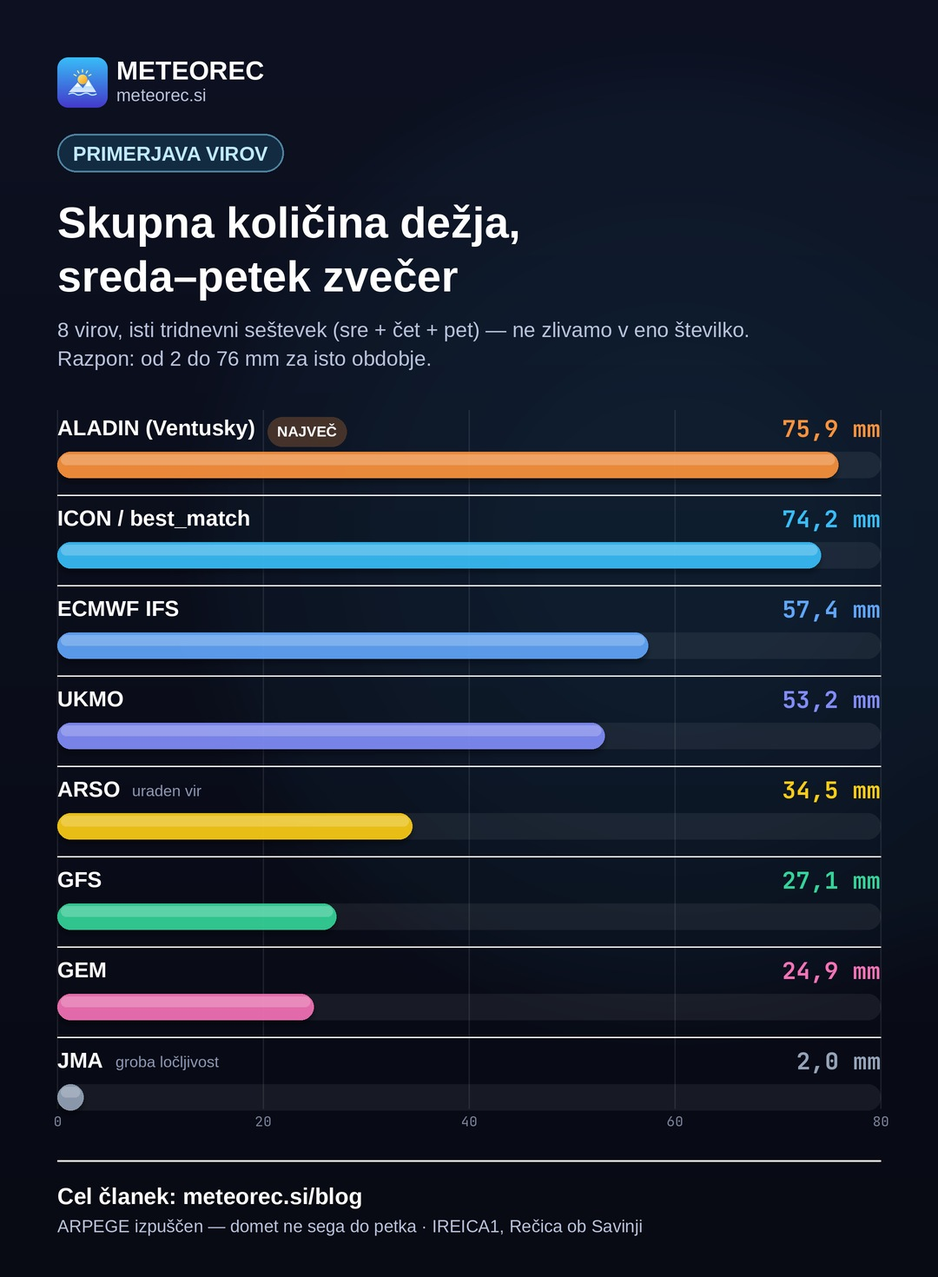
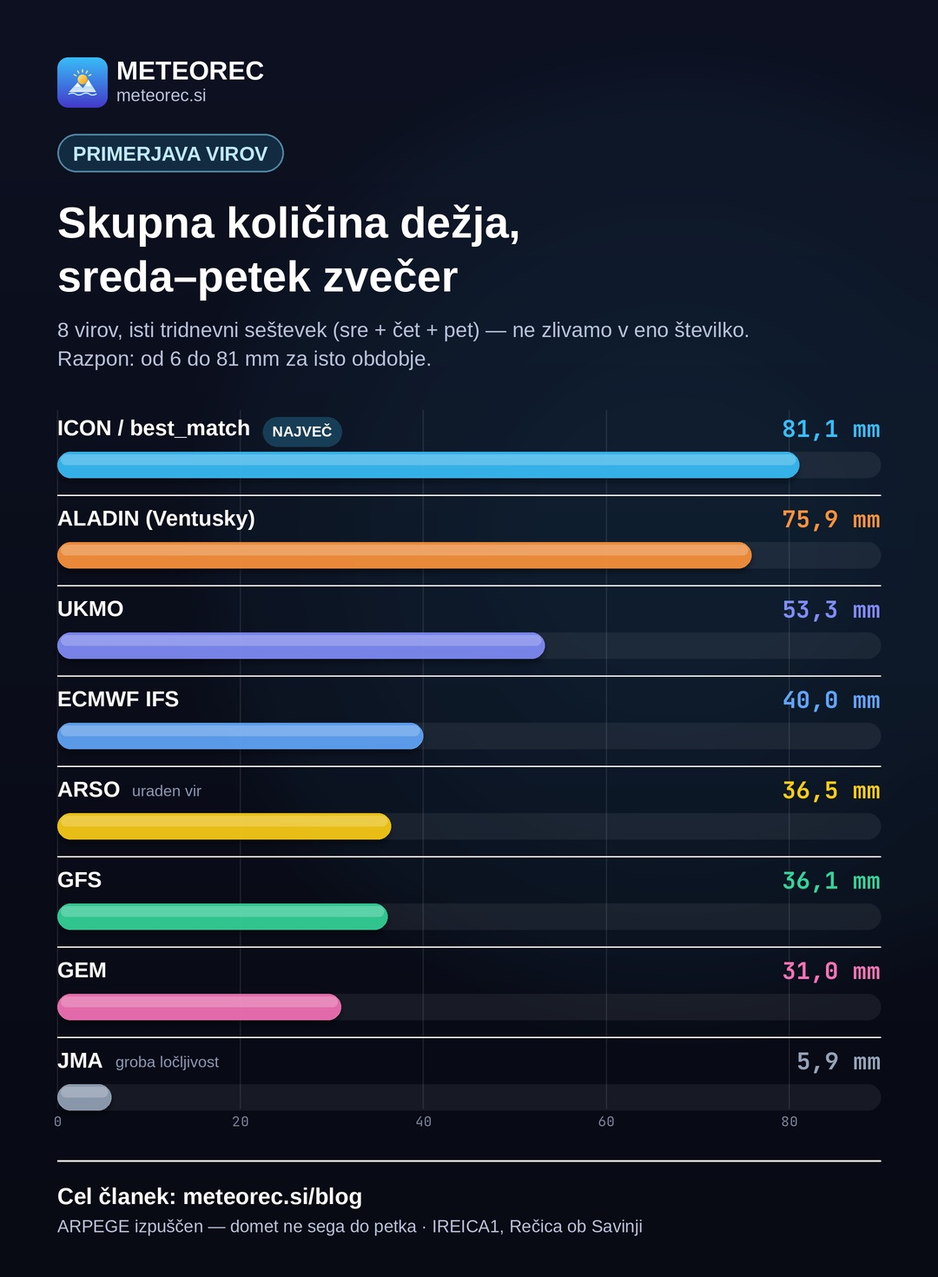
Preveri napovedi in popravi clanek na najnovejsi zagon modelov
Vsi zagoni (Open-Meteo: ECMWF IFS, ICON/best_match, GFS, UKMO, GEM, JMA;
ARSO) so se od jutranje objave premaknili -- popravljeno povsod, kjer se
je razlika poznala:
- trenutne razmere (stat-grid): temperatura, vlaznost, tlak
- oba grafa (7-dnevni pregled + urni potek sreda-petek), vkljucno z
  vgrajenimi Chart.js podatkovnimi polji
- sunki vetra v sredo, urna intenziteta dezja v cetrtek
- 4-vrstocna cetrtkova tabela in 8-vrsticna tridnevna tabela (padavine se
  je razporedila drugace med cetrtek/petek -- ICON je zdaj najvisji vir,
  ne vec ALADIN, ki ostaja zamrznjen enkratni odcitek)
- primerjava za petek in konec tedna

ALADIN (Ventusky) se ni osvezil, ker gre za rocno zajet posnetek zaslona,
ne API -- clanek to zdaj pove v opombi pod tabelo.

Kartica primerjave padavin posodobljena z istimi stevilkami.
seo_audit.py in geo_audit.py oba javita 0 napak.

Claude-Session: https://claude.ai/code/session_01QvoY2hgseD4fkoMvwferAj

diff --git a/blog/poslabsanje-vremena-sredi-tedna-v-sredo-zvecer-dez-v-cetrtek-0907.html b/blog/poslabsanje-vremena-sredi-tedna-v-sredo-zvecer-dez-v-cetrtek-0907.html
@@ -21,7 +21,7 @@ j=d.createElement(s),dl=l!='dataLayer'?'&l='+l:'';j.async=true;j.src=
 <link rel="canonical" href="https://meteorec.si/blog/poslabsanje-vremena-sredi-tedna-v-sredo-zvecer-dez-v-cetrtek-0907.html">
 <link rel="alternate" hreflang="sl" href="https://meteorec.si/blog/poslabsanje-vremena-sredi-tedna-v-sredo-zvecer-dez-v-cetrtek-0907.html">
 <link rel="alternate" hreflang="x-default" href="https://meteorec.si/blog/poslabsanje-vremena-sredi-tedna-v-sredo-zvecer-dez-v-cetrtek-0907.html">
-<meta name="description" content="V sredo zvečer se v Zgornji Savinjski dolini konča vročina: v noči na četrtek in čez dan pade tudi do 60 mm dežja, temperature pa se znižajo za skoraj 15 stopinj.">
+<meta name="description" content="V sredo zvečer se v Zgornji Savinjski dolini konča vročina: v noči na četrtek in čez dan pade tudi do 50 mm dežja, temperature pa se znižajo za skoraj 16 stopinj.">
 <meta name="keywords" content="napoved, poslabšanje, padavine, ohladitev, IREICA1, Zgornja Savinjska dolina">
 <meta name="robots" content="index, follow, max-image-preview:large">
 <meta name="author" content="Filip Eremita">
@@ -29,7 +29,7 @@ j=d.createElement(s),dl=l!='dataLayer'?'&l='+l:'';j.async=true;j.src=
 <meta property="og:url" content="https://meteorec.si/blog/poslabsanje-vremena-sredi-tedna-v-sredo-zvecer-dez-v-cetrtek-0907.html">
 <meta property="og:site_name" content="Meteorec">
 <meta property="og:title" content="Poslabšanje vremena sredi tedna: v sredo zvečer dež, v četrtek in petek oster padec temperature">
-<meta property="og:description" content="V sredo zvečer se v Zgornji Savinjski dolini konča vročina: v noči na četrtek in čez dan pade tudi do 60 mm dežja, temperature pa se znižajo za skoraj 15 stopinj.">
+<meta property="og:description" content="V sredo zvečer se v Zgornji Savinjski dolini konča vročina: v noči na četrtek in čez dan pade tudi do 50 mm dežja, temperature pa se znižajo za skoraj 16 stopinj.">
 <meta property="og:image" content="https://meteorec.si/og/poslabsanje-vremena-sredi-tedna-v-sredo-zvecer-dez-v-cetrtek-0907.jpg">
 <meta property="og:image:width" content="1200">
 <meta property="og:image:height" content="630">
@@ -39,14 +39,14 @@ j=d.createElement(s),dl=l!='dataLayer'?'&l='+l:'';j.async=true;j.src=
 <meta property="article:section" content="Napoved">
 <meta name="twitter:card" content="summary_large_image">
 <meta name="twitter:title" content="Poslabšanje vremena sredi tedna: v sredo zvečer dež, v četrtek in petek oster padec temperature">
-<meta name="twitter:description" content="V sredo zvečer se v Zgornji Savinjski dolini konča vročina: v noči na četrtek in čez dan pade tudi do 60 mm dežja, temperature pa se znižajo za skoraj 15 stopinj.">
+<meta name="twitter:description" content="V sredo zvečer se v Zgornji Savinjski dolini konča vročina: v noči na četrtek in čez dan pade tudi do 50 mm dežja, temperature pa se znižajo za skoraj 16 stopinj.">
 <meta name="twitter:image" content="https://meteorec.si/og/poslabsanje-vremena-sredi-tedna-v-sredo-zvecer-dez-v-cetrtek-0907.jpg">
 <script type="application/ld+json">
 {
   "@context": "https://schema.org",
   "@type": "BlogPosting",
   "headline": "Poslabšanje vremena sredi tedna: v sredo zvečer dež, v četrtek in petek oster padec temperature",
-  "description": "V sredo zvečer se v Zgornji Savinjski dolini konča vročina: v noči na četrtek in čez dan pade tudi do 60 mm dežja, temperature pa se znižajo za skoraj 15 stopinj.",
+  "description": "V sredo zvečer se v Zgornji Savinjski dolini konča vročina: v noči na četrtek in čez dan pade tudi do 50 mm dežja, temperature pa se znižajo za skoraj 16 stopinj.",
   "image": { "@type": "ImageObject", "url": "https://meteorec.si/og/poslabsanje-vremena-sredi-tedna-v-sredo-zvecer-dez-v-cetrtek-0907.jpg", "width": 1200, "height": 630 },
   "datePublished": "2026-09-07",
   "dateModified": "2026-09-07",
@@ -111,22 +111,22 @@ height="0" width="0" style="display:none;visibility:hidden"></iframe></noscript>
     <div class="stat-grid">
       <div class="stat-card c-cool">
         <div class="sc-label">Trenutna temperatura</div>
-        <div class="sc-val">12,7</div>
+        <div class="sc-val">17,3</div>
         <div class="sc-sub">°C · postaja IREICA1</div>
       </div>
       <div class="stat-card c-green">
         <div class="sc-label">Vlažnost</div>
-        <div class="sc-val">99</div>
+        <div class="sc-val">92</div>
         <div class="sc-sub">%</div>
       </div>
       <div class="stat-card c-dry">
         <div class="sc-label">Zračni tlak</div>
-        <div class="sc-val">1025</div>
+        <div class="sc-val">1022</div>
         <div class="sc-sub">hPa</div>
       </div>
       <div class="stat-card c-rain">
         <div class="sc-label">Dež v četrtek (ICON)</div>
-        <div class="sc-val">62,3</div>
+        <div class="sc-val">48,7</div>
         <div class="sc-sub">mm</div>
       </div>
     </div>
@@ -140,56 +140,56 @@ height="0" width="0" style="display:none;visibility:hidden"></iframe></noscript>
     <div class="chart-card">
       <h3>Sreda–četrtek po urah: prehod od vročine k dežju</h3>
       <canvas id="chartHourly"></canvas>
-      <p style="font-size:.75rem;color:var(--muted);margin-top:.7rem">Urna temperatura in padavine (model ICON/best_match) na 3 ure, sreda 6.00 – petek 6.00. Dež se začne kmalu po polnoči na četrtek, najmočnejši je med 7. in 11. uro zjutraj.</p>
+      <p style="font-size:.75rem;color:var(--muted);margin-top:.7rem">Urna temperatura in padavine (model ICON/best_match) na 3 ure, sreda 6.00 – petek 6.00. Dež se začne kmalu po polnoči na četrtek, najmočnejši je med 6. in 12. uro zjutraj.</p>
     </div>
 
     <span class="section-label">01 — torek in sreda dopoldne</span>
     <h2 id="torek-in-sreda">Zadnji vroči dnevi: torek vrh, sreda dopoldne še poletje</h2>
     <p>Danes, v ponedeljek, se bo po napovedi Open-Meteo segrelo do 29,6 °C, jutri, v torek, pa še nekoliko bolj – do 31,7 °C, kar bo vrh tega vročinskega sunka. Naš poskusni model MTR, ki napovedi Open-Meteo doda popravek za dno doline, za sredo napoveduje 28,6 °C in 62-odstotno verjetnost dežja. Po najnovejši urni napovedi bo ta dež prišel šele proti večeru oziroma ponoči – čez dan naj bi bilo v sredo še suho.</p>
-    <p>Sreda se bo namreč začela še povsem poletno. Po urni napovedi bo temperatura do poldneva narasla na okoli 27,5 °C, do zgodnjega popoldneva pa še nekoliko višje, na 27,7 °C. Kdor v sredo dopoldne načrtuje dejavnosti na prostem, lahko še vedno računa na poletno vreme.</p>
+    <p>Sreda se bo namreč začela še povsem poletno. Po urni napovedi bo temperatura do poldneva narasla na okoli 28,5 °C, do zgodnjega popoldneva pa še nekoliko višje, na skoraj 29 °C. Kdor v sredo dopoldne načrtuje dejavnosti na prostem, lahko še vedno računa na poletno vreme.</p>
 
     <span class="section-label">02 — sreda popoldne</span>
     <h2 id="sreda-popoldne">Sreda popoldne: veter in padajoč tlak napovesta spremembo, dežja pa še ni</h2>
-    <p>Prvi jasen znak preobrata bo veter. Medtem ko bo dopoldne pihal le šibek veter, se bodo med 12. in 17. uro sunki okrepili na 36 do 42 km/h – precej nad vrednosti, ki jih je bila dolina vajena v zadnjih dneh. V istem časovnem obdobju bo skokovito naraščala tudi oblačnost: od jasnega neba opoldne do povsem oblačnega neba že v zgodnjem popoldnevu.</p>
+    <p>Prvi jasen znak preobrata bo veter. Medtem ko bo dopoldne pihal le šibek veter, se bodo med 12. in 17. uro sunki okrepili na 30 do dobrih 36 km/h – precej nad vrednosti, ki jih je bila dolina vajena v zadnjih dneh. V istem časovnem obdobju bo naraščala tudi oblačnost, ki v zgodnjem popoldnevu doseže 100 %.</p>
     <p>V ozadju bo padal tudi zračni tlak. Na postaji IREICA1 je bil danes zjutraj še visokih 1025 hPa, po napovedi pa naj bi do sredinega večera padel na okoli 1008 hPa – skoraj 17 hPa v dobrih dveh dneh, kar je značilen predznak fronte. Kdor želi spremljati, ali je ARSO za območje že izdal kakšno opozorilo, si lahko sprotno stanje ogleda na strani <a href="/nevihte/" style="color:var(--blue)">nevihtna napoved</a>.</p>
     <p>Pomembno pa je, da sreda popoldne še ne bo prinesla dežja – po urni napovedi količina padavin ostaja pri nič vse do pozne noči. Veter in padajoč tlak sta zato opozorilna znaka, ne še sam vremenski dogodek.</p>
 
     <span class="section-label">03 — noč na četrtek in četrtek</span>
     <h2 id="noc-na-cetrtek">Noč na četrtek prinese dež, dopoldne je najmočnejši</h2>
-    <p>Dež po napovedi začne padati kmalu po polnoči na četrtek – sprva rahlo, nato pa se med 7. in 11. uro okrepi na 5 do skoraj 7 mm na uro. Oblačnost bo ves četrtek ostala pri 100 %, temperatura pa se bo med sredinim popoldnevom (okoli 28 °C) in četrtkovim dopoldnevom (okoli 15 °C) znižala za več kot 12 stopinj v manj kot 24 urah.</p>
+    <p>Dež po napovedi začne padati kmalu po polnoči na četrtek – sprva rahlo, nato pa se med 6. in 12. uro okrepi na 2 do dobrih 5 mm na uro. Oblačnost bo ves četrtek ostala pri 100 %, temperatura pa se bo med sredinim popoldnevom (okoli 29 °C) in četrtkovim dopoldnevom (okoli 16 °C) znižala za več kot 12 stopinj v manj kot 24 urah.</p>
     <p>Pri količini dežja v četrtek se štirje viri precej razlikujejo, zato njihovih napovedi ne združujemo v eno samo številko:</p>
     <div class="table-scroll">
       <table class="stats">
         <tr><th>Vir</th><th>Najvišja temperatura</th><th>Padavine (četrtek)</th></tr>
-        <tr><td>ARSO (Ljubno ob Savinji)</td><td>14 °C</td><td>28,6 mm</td></tr>
-        <tr><td>ECMWF IFS</td><td>18,2 °C</td><td>31,8 mm</td></tr>
-        <tr><td>ICON / best_match</td><td>20,1 °C</td><td>62,3 mm</td></tr>
-        <tr><td>GFS</td><td>19,7 °C</td><td>17,1 mm</td></tr>
+        <tr><td>ARSO (Ljubno ob Savinji)</td><td>16 °C</td><td>17,6 mm</td></tr>
+        <tr><td>ECMWF IFS</td><td>19,2 °C</td><td>22,9 mm</td></tr>
+        <tr><td>ICON / best_match</td><td>19,0 °C</td><td>48,7 mm</td></tr>
+        <tr><td>GFS</td><td>20,3 °C</td><td>30,0 mm</td></tr>
       </table>
     </div>
-    <p>Razlika med najnižjo oceno količine padavin (GFS, 17,1 mm) in najvišjo (ICON, 62,3 mm) je več kot trikratna. Vsi štirje viri pa se strinjajo glede občutne ohladitve: v četrtek bo najvišja dnevna temperatura med 14 in 20 °C, torej dobrih 10 do 17 stopinj nižja od torkovega vrha.</p>
-    <p>Postaja IREICA1 je ta mesec doslej namerila 9,9 mm dežja. Če se uresniči najbolj mokra ocena, bi samo v četrtek padlo več kot šestkrat toliko – razlog več, da v naslednjih dneh spremljamo tudi <a href="/vodostaj-savinje/" style="color:var(--blue)">vodostaj Savinje</a>.</p>
+    <p>Razlika med najnižjo oceno količine padavin (ARSO, 17,6 mm) in najvišjo (ICON, 48,7 mm) je skoraj trikratna. Vsi štirje viri pa se strinjajo glede občutne ohladitve: v četrtek bo najvišja dnevna temperatura med 16 in 20 °C, torej dobrih 11 do 16 stopinj nižja od torkovega vrha.</p>
+    <p>Postaja IREICA1 je ta mesec doslej namerila 9,9 mm dežja. Če se uresniči najbolj mokra ocena, bi samo v četrtek padlo skoraj petkrat toliko – razlog več, da v naslednjih dneh spremljamo tudi <a href="/vodostaj-savinje/" style="color:var(--blue)">vodostaj Savinje</a>.</p>
     <p>Če sliko razširimo na vseh osem virov, ki jih spremljamo ta teden, in namesto enega dne pogledamo celoten tridnevni seštevek – sreda, četrtek in petek skupaj – se razpon še poveča:</p>
     <div class="table-scroll">
       <table class="stats">
         <tr><th>Vir</th><th>Sreda–petek skupaj</th></tr>
+        <tr><td>ICON / best_match</td><td>81,1 mm</td></tr>
         <tr><td>ALADIN (Ventusky)*</td><td>75,9 mm</td></tr>
-        <tr><td>ICON / best_match</td><td>74,2 mm</td></tr>
-        <tr><td>ECMWF IFS</td><td>57,4 mm</td></tr>
-        <tr><td>UKMO</td><td>53,2 mm</td></tr>
-        <tr><td>ARSO (Ljubno ob Savinji)</td><td>34,5 mm</td></tr>
-        <tr><td>GFS</td><td>27,1 mm</td></tr>
-        <tr><td>GEM</td><td>24,9 mm</td></tr>
-        <tr><td>JMA</td><td>2,0 mm</td></tr>
+        <tr><td>UKMO</td><td>53,3 mm</td></tr>
+        <tr><td>ECMWF IFS</td><td>40,0 mm</td></tr>
+        <tr><td>ARSO (Ljubno ob Savinji)</td><td>36,5 mm</td></tr>
+        <tr><td>GFS</td><td>36,1 mm</td></tr>
+        <tr><td>GEM</td><td>31,0 mm</td></tr>
+        <tr><td>JMA</td><td>5,9 mm</td></tr>
       </table>
     </div>
-    <p style="color:var(--muted);font-size:.85rem">* ALADIN ni za isto lokacijo kot IREICA1, in mu manjkajo posamezne urne vrednosti – vsota je zato spodnja meja, ne natančna številka. ARPEGE (Météo-France) je izpuščen, ker njegov domet ne sega do petka.</p>
-    <p>Od najbolj skromne ocene (JMA, 2 mm – ta japonski globalni model ima nad Evropo grobo ločljivost in manjše padavinske sisteme pogosto zgreši) do najbolj namočene (ALADIN, skoraj 76 mm) je razlika več kot 35-kratna. Enotni so viri predvsem pri smeri: dež pride, ohladitev pride – koliko dežja natančno, bo jasno šele, ko bo dejansko padel.</p>
+    <p style="color:var(--muted);font-size:.85rem">* ALADIN je osamljen odčitek izpred nekaj ur (ni ista lokacija kot IREICA1, manjkajo tudi posamezne urne vrednosti) in se – drugače kot ostalih sedem virov – ni osvežil z najnovejšim zagonom. ARPEGE (Météo-France) je izpuščen, ker njegov domet ne sega do petka.</p>
+    <p>Od najbolj skromne ocene (JMA, skoraj 6 mm – ta japonski globalni model ima nad Evropo grobo ločljivost in manjše padavinske sisteme pogosto zgreši) do najbolj namočene (ICON, dobrih 81 mm) je razlika več kot 13-kratna. Enotni so viri predvsem pri smeri: dež pride, ohladitev pride – koliko dežja natančno, bo jasno šele, ko bo dejansko padel.</p>
 
     <span class="section-label">04 — petek in konec tedna</span>
     <h2 id="petek-in-konec-tedna">Petek ostaja hladen in vlažen, konec tedna počasno okrevanje</h2>
-    <p>Tudi za petek viri niso enotni. ARSO in ICON kažeta še en hladen in deževen dan (15 oziroma 14,7 °C ter 3,5 oziroma 13,2 mm), ECMWF pa napoveduje, da bo sistem že skoraj povsem umaknjen (18,4 °C, komaj 0,3 mm). GFS izrazito izstopa s 23,6 °C – razlika glede na preostale tri vire je za isti dan več kot 8 stopinj. To predvsem kaže, da natančnega dneva umika fronte še ni mogoče zanesljivo določiti.</p>
-    <p>Po večini scenarijev bo ohladitev do konca tedna počasi popuščala: sobotna napoved (ICON) kaže 20,0 °C, nedeljska pa že 21,6 °C, brez dežja. Namočena tla in nižje temperature so tudi dejavniki, ki jih spremljamo pri <a href="/gobarska-napoved/" style="color:var(--blue)">gobarski napovedi</a> – vendar se trosnjaki na dež odzovejo z večdnevnim zamikom, ne že isti teden.</p>
+    <p>Tudi za petek viri niso enotni. ARSO in ICON kažeta še en hladen in deževen dan (13 oziroma 15,3 °C ter 13,9 in 31,5 mm), ECMWF je nekje vmes (17,0 °C, 11,1 mm). GFS izrazito izstopa – zdaj še bolj kot pri četrtkovi napovedi – s 26,0 °C, kar je od najhladnejšega vira (ARSO) oddaljeno za 13 stopinj za isti dan. To predvsem kaže, da natančnega dneva umika fronte še ni mogoče zanesljivo določiti.</p>
+    <p>Po večini scenarijev bo ohladitev do konca tedna počasi popuščala: sobotna napoved (ICON) kaže 20,1 °C ob minimalnih padavinah, nedeljska pa 19,3 °C in suha. Namočena tla in nižje temperature so tudi dejavniki, ki jih spremljamo pri <a href="/gobarska-napoved/" style="color:var(--blue)">gobarski napovedi</a> – vendar se trosnjaki na dež odzovejo z večdnevnim zamikom, ne že isti teden.</p>
 
     <div class="callout">
       <p><strong>Kako zanesljiva je napoved za dva do tri dni vnaprej:</strong> Po izmerjenih napakah na strani <a href="/test-napovedi/" style="color:var(--blue)">Test napovedi</a> ima ICON/best_match pri napovedi najvišje temperature dva do tri dni vnaprej povprečno napako 1,7–1,8 °C, ECMWF in GFS pa 2,1–2,2 °C. Pri zaznavi dneva z več kot 5 mm dežja modeli dogodek zaznajo v 60 do 68 odstotkih primerov. To je dovolj, da lahko precej zaupamo napovedi, da bo v četrtek res deževalo in da bo občutno hladneje – ne pa še natančni napovedi količine padavin v milimetrih.</p>
@@ -252,12 +252,12 @@ height="0" width="0" style="display:none;visibility:hidden"></iframe></noscript>
     data: {
       labels: ["07.09.", "08.09.", "09.09.", "10.09.", "11.09.", "12.09.", "13.09."],
       datasets: [
-        { type: 'bar', label: 'Padavine (mm)', data: [0.0, 0.0, 0.0, 62.3, 13.2, 0.0, 0.0], backgroundColor: 'rgba(96,165,250,.55)',
+        { type: 'bar', label: 'Padavine (mm)', data: [0.0, 0.2, 0.9, 48.7, 31.5, 0.6, 0.0], backgroundColor: 'rgba(96,165,250,.55)',
            borderRadius: 5, yAxisID: 'y1', order: 3 },
-        { type: 'line', label: 'Tmax (°C)', data: [29.6, 31.7, 27.8, 20.1, 14.7, 20.0, 21.6], borderColor: '#f97316',
+        { type: 'line', label: 'Tmax (°C)', data: [29.1, 31.8, 28.9, 19.0, 15.3, 20.1, 19.3], borderColor: '#f97316',
            backgroundColor: 'rgba(249,115,22,.12)', borderWidth: 2, pointRadius: 3,
            pointBackgroundColor: '#f97316', fill: true, tension: .35, order: 1 },
-        { type: 'line', label: 'Tmin (°C)', data: [11.0, 16.2, 17.1, 13.3, 12.9, 12.8, 8.1], borderColor: '#22d3ee',
+        { type: 'line', label: 'Tmin (°C)', data: [11.0, 14.6, 16.5, 13.7, 13.3, 13.1, 12.4], borderColor: '#22d3ee',
            backgroundColor: 'rgba(34,211,238,.08)', borderWidth: 2, pointRadius: 3,
            pointBackgroundColor: '#22d3ee', fill: true, tension: .35, order: 2 }
       ]
@@ -279,9 +279,9 @@ height="0" width="0" style="display:none;visibility:hidden"></iframe></noscript>
     data: {
       labels: ["sre 06", "sre 09", "sre 12", "sre 15", "sre 18", "sre 21", "čet 00", "čet 03", "čet 06", "čet 09", "čet 12", "čet 15", "čet 18", "čet 21", "pet 00", "pet 03", "pet 06"],
       datasets: [
-        { type: 'bar', label: 'Padavine (mm)', data: [0.0, 0.0, 0.0, 0.0, 0.0, 0.0, 0.2, 3.0, 2.0, 6.5, 2.9, 1.4, 1.3, 0.8, 0.7, 0.2, 1.6], backgroundColor: 'rgba(96,165,250,.55)',
+        { type: 'bar', label: 'Padavine (mm)', data: [0.0, 0.0, 0.0, 0.0, 0.0, 0.0, 1.5, 1.7, 3.7, 4.6, 2.3, 1.1, 0.6, 1.5, 0.5, 2.7, 5.5], backgroundColor: 'rgba(96,165,250,.55)',
            borderRadius: 4, yAxisID: 'y1', order: 3 },
-        { type: 'line', label: 'Temperatura (°C)', data: [17.2, 24.3, 27.5, 27.7, 24.3, 22.1, 20.1, 18.5, 17.0, 15.6, 15.0, 14.9, 14.5, 13.6, 13.2, 13.2, 13.4], borderColor: '#f97316',
+        { type: 'line', label: 'Temperatura (°C)', data: [17.0, 22.2, 28.5, 28.3, 24.0, 21.1, 19.0, 17.5, 16.3, 16.2, 16.5, 15.2, 14.8, 14.0, 13.7, 13.5, 13.3], borderColor: '#f97316',
            backgroundColor: 'rgba(249,115,22,.12)', borderWidth: 2, pointRadius: 2.5,
            pointBackgroundColor: '#f97316', fill: true, tension: .3, order: 1 }
       ]

diff --git a/blog/podnebno-povprecje-kako-vroc-je-res-ta-avgust-0806.html b/blog/podnebno-povprecje-kako-vroc-je-res-ta-avgust-0806.html
@@ -186,7 +186,7 @@ height="0" width="0" style="display:none;visibility:hidden"></iframe></noscript>
   <!-- sorodni:start — samodejno, wire_all(); ne urejaj ročno -->
   <section class="related-posts">
     <h2 class="related-title">Sorodni članki</h2>
-    <div class="related-grid"><a class="related-card" href="/blog/danes-vrh-vrocine-32-4-c-v-zgornji-savinjski-dolini-nato-ohl-0717.html"><span class="related-date">17. julija 2026</span><span class="related-h">Danes vrh vročine: 32,4 °C v Zgornji Savinjski dolini, nato ohladitev z dežjem</span><span class="related-sum">Danes na Rečici ob Savinji pričakujemo do 32,4 °C, nato pa se vročinski val prelomi – v naslednjih dneh dež in občutno h…</span></a><a class="related-card" href="/blog/julij-2026-v-zgornji-savinjski-dolini-je-letosnje-vreme-res-0723.html"><span class="related-date">23. julija 2026</span><span class="related-h">Julij 2026 v Zgornji Savinjski dolini: je letošnje vreme res drugačno od dolgoletnega povprečja?</span><span class="related-sum">Kako se julij 2026 v Rečici ob Savinji obnaša glede na podnebno povprečje doline? Primerjava trenutnih razmer IREICA1 z …</span></a><a class="related-card" href="/blog/kdaj-popusti-vrocina-po-vrhuncu-35-6-c-0816.html"><span class="related-date">16. avgusta 2026</span><span class="related-h">Kdaj popusti vročina po vrhuncu 35,6 °C?</span><span class="related-sum">Danes vrh vročine z 35,6 °C v Zgornji Savinjski dolini, nato hiter obrat: jutri dež in ohladitev pod 26 stopinj. Kaj kaž…</span></a></div>
+    <div class="related-grid"><a class="related-card" href="/blog/julij-2026-v-zgornji-savinjski-dolini-je-letosnje-vreme-res-0723.html"><span class="related-date">23. julija 2026</span><span class="related-h">Julij 2026 v Zgornji Savinjski dolini: je letošnje vreme res drugačno od dolgoletnega povprečja?</span><span class="related-sum">Kako se julij 2026 v Rečici ob Savinji obnaša glede na podnebno povprečje doline? Primerjava trenutnih razmer IREICA1 z …</span></a><a class="related-card" href="/blog/danes-vrh-vrocine-32-4-c-v-zgornji-savinjski-dolini-nato-ohl-0717.html"><span class="related-date">17. julija 2026</span><span class="related-h">Danes vrh vročine: 32,4 °C v Zgornji Savinjski dolini, nato ohladitev z dežjem</span><span class="related-sum">Danes na Rečici ob Savinji pričakujemo do 32,4 °C, nato pa se vročinski val prelomi – v naslednjih dneh dež in občutno h…</span></a><a class="related-card" href="/blog/kdaj-popusti-vrocina-po-vrhuncu-35-6-c-0816.html"><span class="related-date">16. avgusta 2026</span><span class="related-h">Kdaj popusti vročina po vrhuncu 35,6 °C?</span><span class="related-sum">Danes vrh vročine z 35,6 °C v Zgornji Savinjski dolini, nato hiter obrat: jutri dež in ohladitev pod 26 stopinj. Kaj kaž…</span></a></div>
   </section>
   <!-- sorodni:end -->
 

diff --git a/blog/tedenska-napoved-24-28-avgust-2026.html b/blog/tedenska-napoved-24-28-avgust-2026.html
@@ -429,7 +429,7 @@ height="0" width="0" style="display:none;visibility:hidden"></iframe></noscript>
   <!-- sorodni:start — samodejno, wire_all(); ne urejaj ročno -->
   <section class="related-posts">
     <h2 class="related-title">Sorodni članki</h2>
-    <div class="related-grid"><a class="related-card" href="/blog/tedenska-napoved-11-17-avgust-2026.html"><span class="related-date">10. avgusta 2026</span><span class="related-h">Tedenska napoved 11.–17. avgusta: sredina tedna je uganka, konec tedna vroč</span><span class="related-sum">Šest globalnih modelov, ARSO in domači MTR za teden od 11. do 17. avgusta. V torek nevihte, sredi tedna hladne noči, za …</span></a><a class="related-card" href="/blog/poslabsanje-vremena-sredi-tedna-v-sredo-zvecer-dez-v-cetrtek-0907.html"><span class="related-date">7. septembra 2026</span><span class="related-h">Poslabšanje vremena sredi tedna: v sredo zvečer dež, v četrtek in petek oster padec temperature</span><span class="related-sum">V sredo zvečer se v Zgornji Savinjski dolini konča vročina: v noči na četrtek in čez dan pade tudi do 60 mm dežja, tempe…</span></a><a class="related-card" href="/blog/dez-v-cetrtek-ali-petek-viri-se-ne-strinjajo-o-dnevu-0819.html"><span class="related-date">19. avgusta 2026</span><span class="related-h">Dež v četrtek ali petek? Viri se ne strinjajo o dnevu</span><span class="related-sum">Enajst napovedi za četrtek in petek: v četrtek od 0,0 do 17,8 mm, v petek od 0,3 do 47,5 mm. Grafi primerjajo dneva, ure…</span></a></div>
+    <div class="related-grid"><a class="related-card" href="/blog/tedenska-napoved-11-17-avgust-2026.html"><span class="related-date">10. avgusta 2026</span><span class="related-h">Tedenska napoved 11.–17. avgusta: sredina tedna je uganka, konec tedna vroč</span><span class="related-sum">Šest globalnih modelov, ARSO in domači MTR za teden od 11. do 17. avgusta. V torek nevihte, sredi tedna hladne noči, za …</span></a><a class="related-card" href="/blog/poslabsanje-vremena-sredi-tedna-v-sredo-zvecer-dez-v-cetrtek-0907.html"><span class="related-date">7. septembra 2026</span><span class="related-h">Poslabšanje vremena sredi tedna: v sredo zvečer dež, v četrtek in petek oster padec temperature</span><span class="related-sum">V sredo zvečer se v Zgornji Savinjski dolini konča vročina: v noči na četrtek in čez dan pade tudi do 50 mm dežja, tempe…</span></a><a class="related-card" href="/blog/dez-v-cetrtek-ali-petek-viri-se-ne-strinjajo-o-dnevu-0819.html"><span class="related-date">19. avgusta 2026</span><span class="related-h">Dež v četrtek ali petek? Viri se ne strinjajo o dnevu</span><span class="related-sum">Enajst napovedi za četrtek in petek: v četrtek od 0,0 do 17,8 mm, v petek od 0,3 do 47,5 mm. Grafi primerjajo dneva, ure…</span></a></div>
   </section>
   <!-- sorodni:end -->
 

diff --git a/blog/koliko-dezja-bo-jutri-arso-in-open-meteo-narazen-0824.html b/blog/koliko-dezja-bo-jutri-arso-in-open-meteo-narazen-0824.html
@@ -183,7 +183,7 @@ height="0" width="0" style="display:none;visibility:hidden"></iframe></noscript>
   <!-- sorodni:start — samodejno, wire_all(); ne urejaj ročno -->
   <section class="related-posts">
     <h2 class="related-title">Sorodni članki</h2>
-    <div class="related-grid"><a class="related-card" href="/blog/tedenska-napoved-24-28-avgust-2026.html"><span class="related-date">23. avgusta 2026</span><span class="related-h">Napoved za teden 24.–28. avgusta: torek uganka, petek vroč in vetroven</span><span class="related-sum">Šest modelov, ARSO in domači MTR za teden 24.–28. avgusta v Zgornji Savinjski dolini: torek je velika uganka, petek vroč…</span></a><a class="related-card" href="/blog/tedenska-napoved-11-17-avgust-2026.html"><span class="related-date">10. avgusta 2026</span><span class="related-h">Tedenska napoved 11.–17. avgusta: sredina tedna je uganka, konec tedna vroč</span><span class="related-sum">Šest globalnih modelov, ARSO in domači MTR za teden od 11. do 17. avgusta. V torek nevihte, sredi tedna hladne noči, za …</span></a><a class="related-card" href="/blog/poslabsanje-vremena-sredi-tedna-v-sredo-zvecer-dez-v-cetrtek-0907.html"><span class="related-date">7. septembra 2026</span><span class="related-h">Poslabšanje vremena sredi tedna: v sredo zvečer dež, v četrtek in petek oster padec temperature</span><span class="related-sum">V sredo zvečer se v Zgornji Savinjski dolini konča vročina: v noči na četrtek in čez dan pade tudi do 60 mm dežja, tempe…</span></a></div>
+    <div class="related-grid"><a class="related-card" href="/blog/tedenska-napoved-24-28-avgust-2026.html"><span class="related-date">23. avgusta 2026</span><span class="related-h">Napoved za teden 24.–28. avgusta: torek uganka, petek vroč in vetroven</span><span class="related-sum">Šest modelov, ARSO in domači MTR za teden 24.–28. avgusta v Zgornji Savinjski dolini: torek je velika uganka, petek vroč…</span></a><a class="related-card" href="/blog/poslabsanje-vremena-sredi-tedna-v-sredo-zvecer-dez-v-cetrtek-0907.html"><span class="related-date">7. septembra 2026</span><span class="related-h">Poslabšanje vremena sredi tedna: v sredo zvečer dež, v četrtek in petek oster padec temperature</span><span class="related-sum">V sredo zvečer se v Zgornji Savinjski dolini konča vročina: v noči na četrtek in čez dan pade tudi do 50 mm dežja, tempe…</span></a><a class="related-card" href="/blog/tedenska-napoved-11-17-avgust-2026.html"><span class="related-date">10. avgusta 2026</span><span class="related-h">Tedenska napoved 11.–17. avgusta: sredina tedna je uganka, konec tedna vroč</span><span class="related-sum">Šest globalnih modelov, ARSO in domači MTR za teden od 11. do 17. avgusta. V torek nevihte, sredi tedna hladne noči, za …</span></a></div>
   </section>
   <!-- sorodni:end -->
 

diff --git a/blog/naslednji-teden-konec-poletja-0904.html b/blog/naslednji-teden-konec-poletja-0904.html
@@ -220,7 +220,7 @@ height="0" width="0" style="display:none;visibility:hidden"></iframe></noscript>
   <!-- sorodni:start — samodejno, wire_all(); ne urejaj ročno -->
   <section class="related-posts">
     <h2 class="related-title">Sorodni članki</h2>
-    <div class="related-grid"><a class="related-card" href="/blog/tedenska-napoved-24-28-avgust-2026.html"><span class="related-date">23. avgusta 2026</span><span class="related-h">Napoved za teden 24.–28. avgusta: torek uganka, petek vroč in vetroven</span><span class="related-sum">Šest modelov, ARSO in domači MTR za teden 24.–28. avgusta v Zgornji Savinjski dolini: torek je velika uganka, petek vroč…</span></a><a class="related-card" href="/blog/tedenska-napoved-11-17-avgust-2026.html"><span class="related-date">10. avgusta 2026</span><span class="related-h">Tedenska napoved 11.–17. avgusta: sredina tedna je uganka, konec tedna vroč</span><span class="related-sum">Šest globalnih modelov, ARSO in domači MTR za teden od 11. do 17. avgusta. V torek nevihte, sredi tedna hladne noči, za …</span></a><a class="related-card" href="/blog/poslabsanje-vremena-sredi-tedna-v-sredo-zvecer-dez-v-cetrtek-0907.html"><span class="related-date">7. septembra 2026</span><span class="related-h">Poslabšanje vremena sredi tedna: v sredo zvečer dež, v četrtek in petek oster padec temperature</span><span class="related-sum">V sredo zvečer se v Zgornji Savinjski dolini konča vročina: v noči na četrtek in čez dan pade tudi do 60 mm dežja, tempe…</span></a></div>
+    <div class="related-grid"><a class="related-card" href="/blog/tedenska-napoved-24-28-avgust-2026.html"><span class="related-date">23. avgusta 2026</span><span class="related-h">Napoved za teden 24.–28. avgusta: torek uganka, petek vroč in vetroven</span><span class="related-sum">Šest modelov, ARSO in domači MTR za teden 24.–28. avgusta v Zgornji Savinjski dolini: torek je velika uganka, petek vroč…</span></a><a class="related-card" href="/blog/tedenska-napoved-11-17-avgust-2026.html"><span class="related-date">10. avgusta 2026</span><span class="related-h">Tedenska napoved 11.–17. avgusta: sredina tedna je uganka, konec tedna vroč</span><span class="related-sum">Šest globalnih modelov, ARSO in domači MTR za teden od 11. do 17. avgusta. V torek nevihte, sredi tedna hladne noči, za …</span></a><a class="related-card" href="/blog/poslabsanje-vremena-sredi-tedna-v-sredo-zvecer-dez-v-cetrtek-0907.html"><span class="related-date">7. septembra 2026</span><span class="related-h">Poslabšanje vremena sredi tedna: v sredo zvečer dež, v četrtek in petek oster padec temperature</span><span class="related-sum">V sredo zvečer se v Zgornji Savinjski dolini konča vročina: v noči na četrtek in čez dan pade tudi do 50 mm dežja, tempe…</span></a></div>
   </section>
   <!-- sorodni:end -->
 

diff --git a/blog/dez-v-cetrtek-ali-petek-viri-se-ne-strinjajo-o-dnevu-0819.html b/blog/dez-v-cetrtek-ali-petek-viri-se-ne-strinjajo-o-dnevu-0819.html
@@ -1102,7 +1102,7 @@ height="0" width="0" style="display:none;visibility:hidden"></iframe></noscript>
   <!-- sorodni:start — samodejno, wire_all(); ne urejaj ročno -->
   <section class="related-posts">
     <h2 class="related-title">Sorodni članki</h2>
-    <div class="related-grid"><a class="related-card" href="/blog/koliko-dezja-bo-danes-modeli-si-niso-enotni-0817.html"><span class="related-date">17. avgusta 2026</span><span class="related-h">Koliko dežja bo danes? Modeli si niso enotni</span><span class="related-sum">Enajst virov za isti dan in isto točko napove od 1,2 do 16,9 mm dežja. Grafi primerjajo količine in uro padavin — ter ka…</span></a><a class="related-card" href="/blog/tedenska-napoved-24-28-avgust-2026.html"><span class="related-date">23. avgusta 2026</span><span class="related-h">Napoved za teden 24.–28. avgusta: torek uganka, petek vroč in vetroven</span><span class="related-sum">Šest modelov, ARSO in domači MTR za teden 24.–28. avgusta v Zgornji Savinjski dolini: torek je velika uganka, petek vroč…</span></a><a class="related-card" href="/blog/poslabsanje-vremena-sredi-tedna-v-sredo-zvecer-dez-v-cetrtek-0907.html"><span class="related-date">7. septembra 2026</span><span class="related-h">Poslabšanje vremena sredi tedna: v sredo zvečer dež, v četrtek in petek oster padec temperature</span><span class="related-sum">V sredo zvečer se v Zgornji Savinjski dolini konča vročina: v noči na četrtek in čez dan pade tudi do 60 mm dežja, tempe…</span></a></div>
+    <div class="related-grid"><a class="related-card" href="/blog/koliko-dezja-bo-danes-modeli-si-niso-enotni-0817.html"><span class="related-date">17. avgusta 2026</span><span class="related-h">Koliko dežja bo danes? Modeli si niso enotni</span><span class="related-sum">Enajst virov za isti dan in isto točko napove od 1,2 do 16,9 mm dežja. Grafi primerjajo količine in uro padavin — ter ka…</span></a><a class="related-card" href="/blog/poslabsanje-vremena-sredi-tedna-v-sredo-zvecer-dez-v-cetrtek-0907.html"><span class="related-date">7. septembra 2026</span><span class="related-h">Poslabšanje vremena sredi tedna: v sredo zvečer dež, v četrtek in petek oster padec temperature</span><span class="related-sum">V sredo zvečer se v Zgornji Savinjski dolini konča vročina: v noči na četrtek in čez dan pade tudi do 50 mm dežja, tempe…</span></a><a class="related-card" href="/blog/tedenska-napoved-24-28-avgust-2026.html"><span class="related-date">23. avgusta 2026</span><span class="related-h">Napoved za teden 24.–28. avgusta: torek uganka, petek vroč in vetroven</span><span class="related-sum">Šest modelov, ARSO in domači MTR za teden 24.–28. avgusta v Zgornji Savinjski dolini: torek je velika uganka, petek vroč…</span></a></div>
   </section>
   <!-- sorodni:end -->
 

diff --git a/blog/test-napovedi-2026-07.html b/blog/test-napovedi-2026-07.html
@@ -114,7 +114,7 @@ height="0" width="0" style="display:none;visibility:hidden"></iframe></noscript>
   <!-- sorodni:start — samodejno, wire_all(); ne urejaj ročno -->
   <section class="related-posts">
     <h2 class="related-title">Sorodni članki</h2>
-    <div class="related-grid"><a class="related-card" href="/blog/test-napovedi-2026-08.html"><span class="related-date">1. septembra 2026</span><span class="related-h">Test napovedi: avgust 2026 — zmagal ICON</span><span class="related-sum">Mesečni pregled natančnosti vremenske napovedi za Zgornjo Savinjsko dolino v avgustu 2026: primerjava ECMWF, ICON, GFS, …</span></a><a class="related-card" href="/blog/koliko-bo-danes-zalilo-primerjava-modelov-0807.html"><span class="related-date">7. avgusta 2026</span><span class="related-h">Koliko bo danes zalilo v Rečici? Primerjava modelov</span><span class="related-sum">Postaja IREICA1 je zjutraj še suha. ARSO za danes napoveduje 31,8 mm in možnost neviht, ICON komaj 0,4 mm. Primerjava še…</span></a><a class="related-card" href="/blog/poslabsanje-vremena-sredi-tedna-v-sredo-zvecer-dez-v-cetrtek-0907.html"><span class="related-date">7. septembra 2026</span><span class="related-h">Poslabšanje vremena sredi tedna: v sredo zvečer dež, v četrtek in petek oster padec temperature</span><span class="related-sum">V sredo zvečer se v Zgornji Savinjski dolini konča vročina: v noči na četrtek in čez dan pade tudi do 60 mm dežja, tempe…</span></a></div>
+    <div class="related-grid"><a class="related-card" href="/blog/test-napovedi-2026-08.html"><span class="related-date">1. septembra 2026</span><span class="related-h">Test napovedi: avgust 2026 — zmagal ICON</span><span class="related-sum">Mesečni pregled natančnosti vremenske napovedi za Zgornjo Savinjsko dolino v avgustu 2026: primerjava ECMWF, ICON, GFS, …</span></a><a class="related-card" href="/blog/poslabsanje-vremena-sredi-tedna-v-sredo-zvecer-dez-v-cetrtek-0907.html"><span class="related-date">7. septembra 2026</span><span class="related-h">Poslabšanje vremena sredi tedna: v sredo zvečer dež, v četrtek in petek oster padec temperature</span><span class="related-sum">V sredo zvečer se v Zgornji Savinjski dolini konča vročina: v noči na četrtek in čez dan pade tudi do 50 mm dežja, tempe…</span></a><a class="related-card" href="/blog/koliko-bo-danes-zalilo-primerjava-modelov-0807.html"><span class="related-date">7. avgusta 2026</span><span class="related-h">Koliko bo danes zalilo v Rečici? Primerjava modelov</span><span class="related-sum">Postaja IREICA1 je zjutraj še suha. ARSO za danes napoveduje 31,8 mm in možnost neviht, ICON komaj 0,4 mm. Primerjava še…</span></a></div>
   </section>
   <!-- sorodni:end -->
 

diff --git a/blog/koliko-bo-danes-zalilo-primerjava-modelov-0807.html b/blog/koliko-bo-danes-zalilo-primerjava-modelov-0807.html
@@ -219,7 +219,7 @@ height="0" width="0" style="display:none;visibility:hidden"></iframe></noscript>
   <!-- sorodni:start — samodejno, wire_all(); ne urejaj ročno -->
   <section class="related-posts">
     <h2 class="related-title">Sorodni članki</h2>
-    <div class="related-grid"><a class="related-card" href="/blog/tedenska-napoved-24-28-avgust-2026.html"><span class="related-date">23. avgusta 2026</span><span class="related-h">Napoved za teden 24.–28. avgusta: torek uganka, petek vroč in vetroven</span><span class="related-sum">Šest modelov, ARSO in domači MTR za teden 24.–28. avgusta v Zgornji Savinjski dolini: torek je velika uganka, petek vroč…</span></a><a class="related-card" href="/blog/dez-v-cetrtek-ali-petek-viri-se-ne-strinjajo-o-dnevu-0819.html"><span class="related-date">19. avgusta 2026</span><span class="related-h">Dež v četrtek ali petek? Viri se ne strinjajo o dnevu</span><span class="related-sum">Enajst napovedi za četrtek in petek: v četrtek od 0,0 do 17,8 mm, v petek od 0,3 do 47,5 mm. Grafi primerjajo dneva, ure…</span></a><a class="related-card" href="/blog/koliko-dezja-bo-danes-modeli-si-niso-enotni-0817.html"><span class="related-date">17. avgusta 2026</span><span class="related-h">Koliko dežja bo danes? Modeli si niso enotni</span><span class="related-sum">Enajst virov za isti dan in isto točko napove od 1,2 do 16,9 mm dežja. Grafi primerjajo količine in uro padavin — ter ka…</span></a></div>
+    <div class="related-grid"><a class="related-card" href="/blog/koliko-dezja-bo-danes-modeli-si-niso-enotni-0817.html"><span class="related-date">17. avgusta 2026</span><span class="related-h">Koliko dežja bo danes? Modeli si niso enotni</span><span class="related-sum">Enajst virov za isti dan in isto točko napove od 1,2 do 16,9 mm dežja. Grafi primerjajo količine in uro padavin — ter ka…</span></a><a class="related-card" href="/blog/dez-v-cetrtek-ali-petek-viri-se-ne-strinjajo-o-dnevu-0819.html"><span class="related-date">19. avgusta 2026</span><span class="related-h">Dež v četrtek ali petek? Viri se ne strinjajo o dnevu</span><span class="related-sum">Enajst napovedi za četrtek in petek: v četrtek od 0,0 do 17,8 mm, v petek od 0,3 do 47,5 mm. Grafi primerjajo dneva, ure…</span></a><a class="related-card" href="/blog/tedenska-napoved-24-28-avgust-2026.html"><span class="related-date">23. avgusta 2026</span><span class="related-h">Napoved za teden 24.–28. avgusta: torek uganka, petek vroč in vetroven</span><span class="related-sum">Šest modelov, ARSO in domači MTR za teden 24.–28. avgusta v Zgornji Savinjski dolini: torek je velika uganka, petek vroč…</span></a></div>
   </section>
   <!-- sorodni:end -->
 

diff --git a/blog/test-napovedi-2026-08.html b/blog/test-napovedi-2026-08.html
@@ -114,7 +114,7 @@ height="0" width="0" style="display:none;visibility:hidden"></iframe></noscript>
   <!-- sorodni:start — samodejno, wire_all(); ne urejaj ročno -->
   <section class="related-posts">
     <h2 class="related-title">Sorodni članki</h2>
-    <div class="related-grid"><a class="related-card" href="/blog/test-napovedi-2026-07.html"><span class="related-date">25. avgusta 2026</span><span class="related-h">Test napovedi: julij 2026 — zmagal ICON</span><span class="related-sum">Mesečni pregled natančnosti vremenske napovedi za Zgornjo Savinjsko dolino v juliju 2026: primerjava ECMWF, ICON, GFS, A…</span></a><a class="related-card" href="/blog/koliko-bo-danes-zalilo-primerjava-modelov-0807.html"><span class="related-date">7. avgusta 2026</span><span class="related-h">Koliko bo danes zalilo v Rečici? Primerjava modelov</span><span class="related-sum">Postaja IREICA1 je zjutraj še suha. ARSO za danes napoveduje 31,8 mm in možnost neviht, ICON komaj 0,4 mm. Primerjava še…</span></a><a class="related-card" href="/blog/koliko-dezja-bo-danes-modeli-si-niso-enotni-0817.html"><span class="related-date">17. avgusta 2026</span><span class="related-h">Koliko dežja bo danes? Modeli si niso enotni</span><span class="related-sum">Enajst virov za isti dan in isto točko napove od 1,2 do 16,9 mm dežja. Grafi primerjajo količine in uro padavin — ter ka…</span></a></div>
+    <div class="related-grid"><a class="related-card" href="/blog/test-napovedi-2026-07.html"><span class="related-date">25. avgusta 2026</span><span class="related-h">Test napovedi: julij 2026 — zmagal ICON</span><span class="related-sum">Mesečni pregled natančnosti vremenske napovedi za Zgornjo Savinjsko dolino v juliju 2026: primerjava ECMWF, ICON, GFS, A…</span></a><a class="related-card" href="/blog/koliko-bo-danes-zalilo-primerjava-modelov-0807.html"><span class="related-date">7. avgusta 2026</span><span class="related-h">Koliko bo danes zalilo v Rečici? Primerjava modelov</span><span class="related-sum">Postaja IREICA1 je zjutraj še suha. ARSO za danes napoveduje 31,8 mm in možnost neviht, ICON komaj 0,4 mm. Primerjava še…</span></a><a class="related-card" href="/blog/poslabsanje-vremena-sredi-tedna-v-sredo-zvecer-dez-v-cetrtek-0907.html"><span class="related-date">7. septembra 2026</span><span class="related-h">Poslabšanje vremena sredi tedna: v sredo zvečer dež, v četrtek in petek oster padec temperature</span><span class="related-sum">V sredo zvečer se v Zgornji Savinjski dolini konča vročina: v noči na četrtek in čez dan pade tudi do 50 mm dežja, tempe…</span></a></div>
   </section>
   <!-- sorodni:end -->
 

diff --git a/blog/invazivke-mesecni-pregled-2026-07.html b/blog/invazivke-mesecni-pregled-2026-07.html
@@ -73,7 +73,7 @@ height="0" width="0" style="display:none;visibility:hidden"></iframe></noscript>
   <!-- sorodni:start — samodejno, wire_all(); ne urejaj ročno -->
   <section class="related-posts">
     <h2 class="related-title">Sorodni članki</h2>
-    <div class="related-grid"><a class="related-card" href="/blog/invazivka-tedenski-pregled-20260815.html"><span class="related-date">15. avgusta 2026</span><span class="related-h">Invazivke ta teden: 2 opazovanji v Zgornji Savinjski dolini</span><span class="related-sum">Tedenski pregled invazivnih vrst v Zgornji Savinjski dolini (14.–15. avgust 2026): 2 opazovanji — Pelinolistna ambrozija…</span></a><a class="related-card" href="/blog/invazivka-tedenski-pregled-20260830.html"><span class="related-date">30. avgusta 2026</span><span class="related-h">Invazivke ta teden: 1 opazovanje na novih lokacijah</span><span class="related-sum">Tedenski pregled invazivnih vrst v Zgornji Savinjski dolini (30. avgusta 2026–30. avgusta 2026): 1 opazovanje na novih l…</span></a><a class="related-card" href="/blog/napoved-julij-2026.html"><span class="related-date">5. julija 2026</span><span class="related-h">Kakšen bo julij 2026? Napoved za dva tedna in obeti do konca meseca</span><span class="related-sum">Konkretna 16-dnevna napoved za Rečico ob Savinji (vroč začetek do 31 °C, nevihten sredinski del, nov naval vročine do ~3…</span></a></div>
+    <div class="related-grid"><a class="related-card" href="/blog/invazivka-tedenski-pregled-20260830.html"><span class="related-date">30. avgusta 2026</span><span class="related-h">Invazivke ta teden: 1 opazovanje na novih lokacijah</span><span class="related-sum">Tedenski pregled invazivnih vrst v Zgornji Savinjski dolini (30. avgusta 2026–30. avgusta 2026): 1 opazovanje na novih l…</span></a><a class="related-card" href="/blog/invazivka-tedenski-pregled-20260815.html"><span class="related-date">15. avgusta 2026</span><span class="related-h">Invazivke ta teden: 2 opazovanji v Zgornji Savinjski dolini</span><span class="related-sum">Tedenski pregled invazivnih vrst v Zgornji Savinjski dolini (14.–15. avgust 2026): 2 opazovanji — Pelinolistna ambrozija…</span></a><a class="related-card" href="/blog/napoved-julij-2026.html"><span class="related-date">5. julija 2026</span><span class="related-h">Kakšen bo julij 2026? Napoved za dva tedna in obeti do konca meseca</span><span class="related-sum">Konkretna 16-dnevna napoved za Rečico ob Savinji (vroč začetek do 31 °C, nevihten sredinski del, nov naval vročine do ~3…</span></a></div>
   </section>
   <!-- sorodni:end -->
 

diff --git a/blog/index.html b/blog/index.html
@@ -265,7 +265,7 @@ height="0" width="0" style="display:none;visibility:hidden"></iframe></noscript>
         <div class="post-card-body">
           <div class="date">7. septembra 2026</div>
           <h2>Poslabšanje vremena sredi tedna: v sredo zvečer dež, v četrtek in petek oster padec temperature</h2>
-          <p>V sredo zvečer se v Zgornji Savinjski dolini konča vročina: v noči na četrtek in čez dan pade tudi do 60 mm dežja, temperature pa se znižajo za skoraj 15 stopinj.</p>
+          <p>V sredo zvečer se v Zgornji Savinjski dolini konča vročina: v noči na četrtek in čez dan pade tudi do 50 mm dežja, temperature pa se znižajo za skoraj 16 stopinj.</p>
         </div>
       </a>
     </li>

diff --git a/blog/tema/ireica1/index.html b/blog/tema/ireica1/index.html
@@ -49,7 +49,7 @@
         <div class="post-card-body">
           <div class="date">7. septembra 2026</div>
           <h2>Poslabšanje vremena sredi tedna: v sredo zvečer dež, v četrtek in petek oster padec temperature</h2>
-          <p>V sredo zvečer se v Zgornji Savinjski dolini konča vročina: v noči na četrtek in čez dan pade tudi do 60 mm dežja, temperature pa se znižajo za skoraj 15 stopinj.</p>
+          <p>V sredo zvečer se v Zgornji Savinjski dolini konča vročina: v noči na četrtek in čez dan pade tudi do 50 mm dežja, temperature pa se znižajo za skoraj 16 stopinj.</p>
         </div>
       </a>
     </li>
